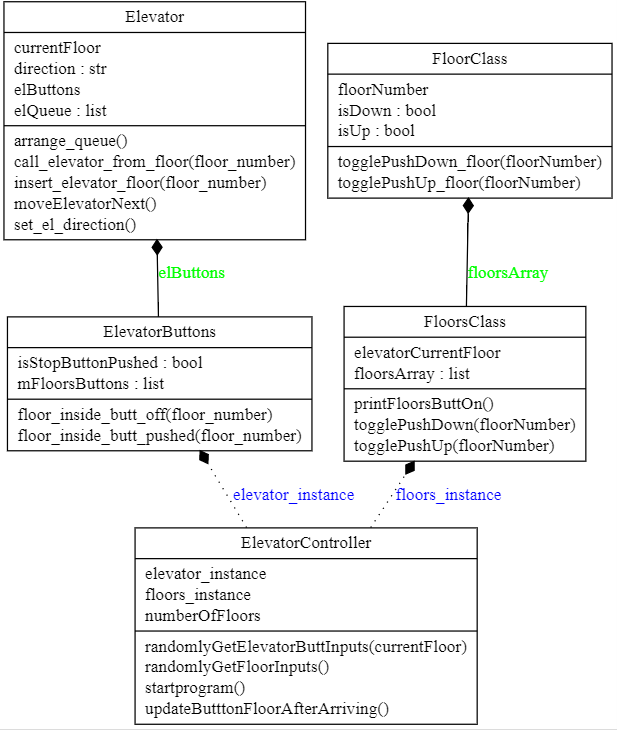
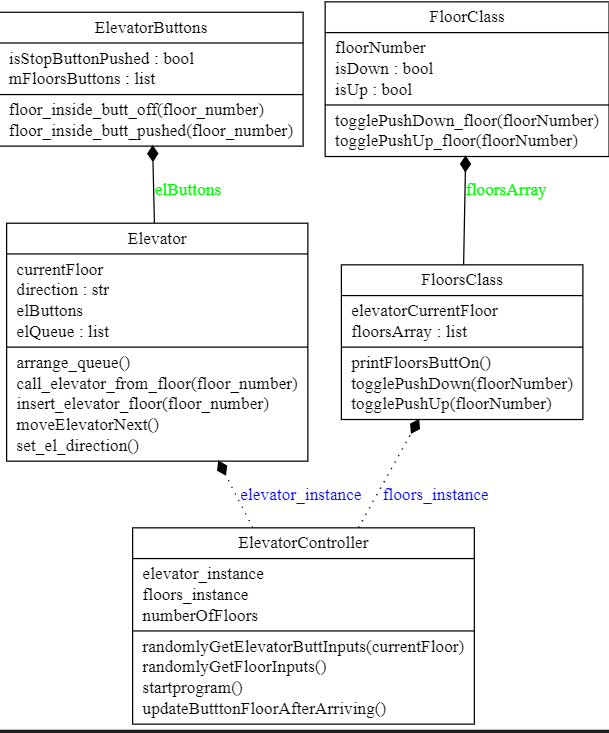
diagram and class update

Changed region(s): [[0.0, 0.0, 1.0, 1.0]]

diff --git a/elevatorClass.py b/elevatorClass.py
@@ -10,7 +10,7 @@ class Elevator:
         self.elQueue = []  # 2 values  on each cell - [  isInsidePress=bolean , floornumber ]
         self.direction = 'not_moving' # options "up", "down", "not_moving"
         self.currentFloor = in_currentFloor # program start from in_currentFloor floor
-        self.elButtons =  self.ElevatorButtons(in_number_of_floors) # entity of elevator buttons
+        self.elButtons =  ElevatorButtons(in_number_of_floors) # entity of elevator buttons
         
     def insert_elevator_floor(self, floor_number):
         """
@@ -94,34 +94,34 @@ class Elevator:
         
 
                          
-    class ElevatorButtons:
+class ElevatorButtons:
+    """
+    class  that will manage the buttons inside the elevator
+    mFloorsButtons - array of all the elavtor floors number.array will be in shape of {<floor_number>,<true/false>}.
+    isStopButtonPushed - button for managing press of stop(open elevator) in next floor.
+    """
+
+    def __init__(self, in_number_of_floors):
+        # array of all the elavtor floors number
+        self.mFloorsButtons = []
+        for i in range(in_number_of_floors):
+            self.mFloorsButtons.append({ i : False})
+        self.isStopButtonPushed = False
+
+    def floor_inside_butt_pushed(self, floor_number):
         """
-        class  that will manage the buttons inside the elevator
-        mFloorsButtons - array of all the elavtor floors number.array will be in shape of {<floor_number>,<true/false>}.
-        isStopButtonPushed - button for managing press of stop(open elevator) in next floor.
+            make button light on after push
         """
 
-        def __init__(self, in_number_of_floors):
-            # array of all the elavtor floors number
-            self.mFloorsButtons = []
-            for i in range(in_number_of_floors):
-                self.mFloorsButtons.append({ i : False})
-            self.isStopButtonPushed = False
+        for key in self.mFloorsButtons:
+            if key == floor_number :
+                self.mFloorsButtons[key] = {key: True}
 
-        def floor_inside_butt_pushed(self, floor_number):
-            """
-                make button light on after push
-            """
+    def floor_inside_butt_off(self, floor_number):
+        """
+            make button light off after getting to destination
+        """
 
-            for key in self.mFloorsButtons:
-                if key == floor_number :
-                    self.mFloorsButtons[key] = {key: True}
-
-        def floor_inside_butt_off(self, floor_number):
-            """
-                make button light off after getting to destination
-            """
-
-            for key in self.mFloorsButtons:
-                if key == floor_number :
-                    self.mFloorsButtons[key] = {key: False}
+        for key in self.mFloorsButtons:
+            if key == floor_number :
+                self.mFloorsButtons[key] = {key: False}

diff --git a/floorsClass.py b/floorsClass.py
@@ -12,7 +12,7 @@ class FloorsClass():
 
         for i in range(in_number_of_floors):
 
-                fl =  self.FloorClass(i)
+                fl =  FloorClass(i)
                 self.floorsArray.append(fl)
         self.elevatorCurrentFloor = elevatorPlace
 
@@ -42,20 +42,20 @@ class FloorsClass():
                 self.floorsArray[i].togglePushDown_floor(floorNumber)
 
 
-    class FloorClass():
-        """
-            class that will represent floor.
-        """
+class FloorClass():
+    """
+        class that will represent floor.
+    """
 
-        def __init__(self, floorNumber):
-            self.isUp=False
-            self.isDown=False
-            self.floorNumber = floorNumber
+    def __init__(self, floorNumber):
+        self.isUp=False
+        self.isDown=False
+        self.floorNumber = floorNumber
 
-        def togglePushUp_floor(self, floorNumber):
-            self.isUp = not  self.isUp
+    def togglePushUp_floor(self, floorNumber):
+        self.isUp = not  self.isUp
 
-        def togglePushDown_floor(self, floorNumber):
-            self.isDown = not  self.isDown
+    def togglePushDown_floor(self, floorNumber):
+        self.isDown = not  self.isDown
 
     

diff --git a/main.py b/main.py
@@ -54,8 +54,7 @@ class ElevatorController:
 
                     
 
-            if  r_2_ % 3 == 0:
-                t2.join()
+            
             t1.join() # program wait until self.randomlyGetFloorInputs() 
 
             i += 1
